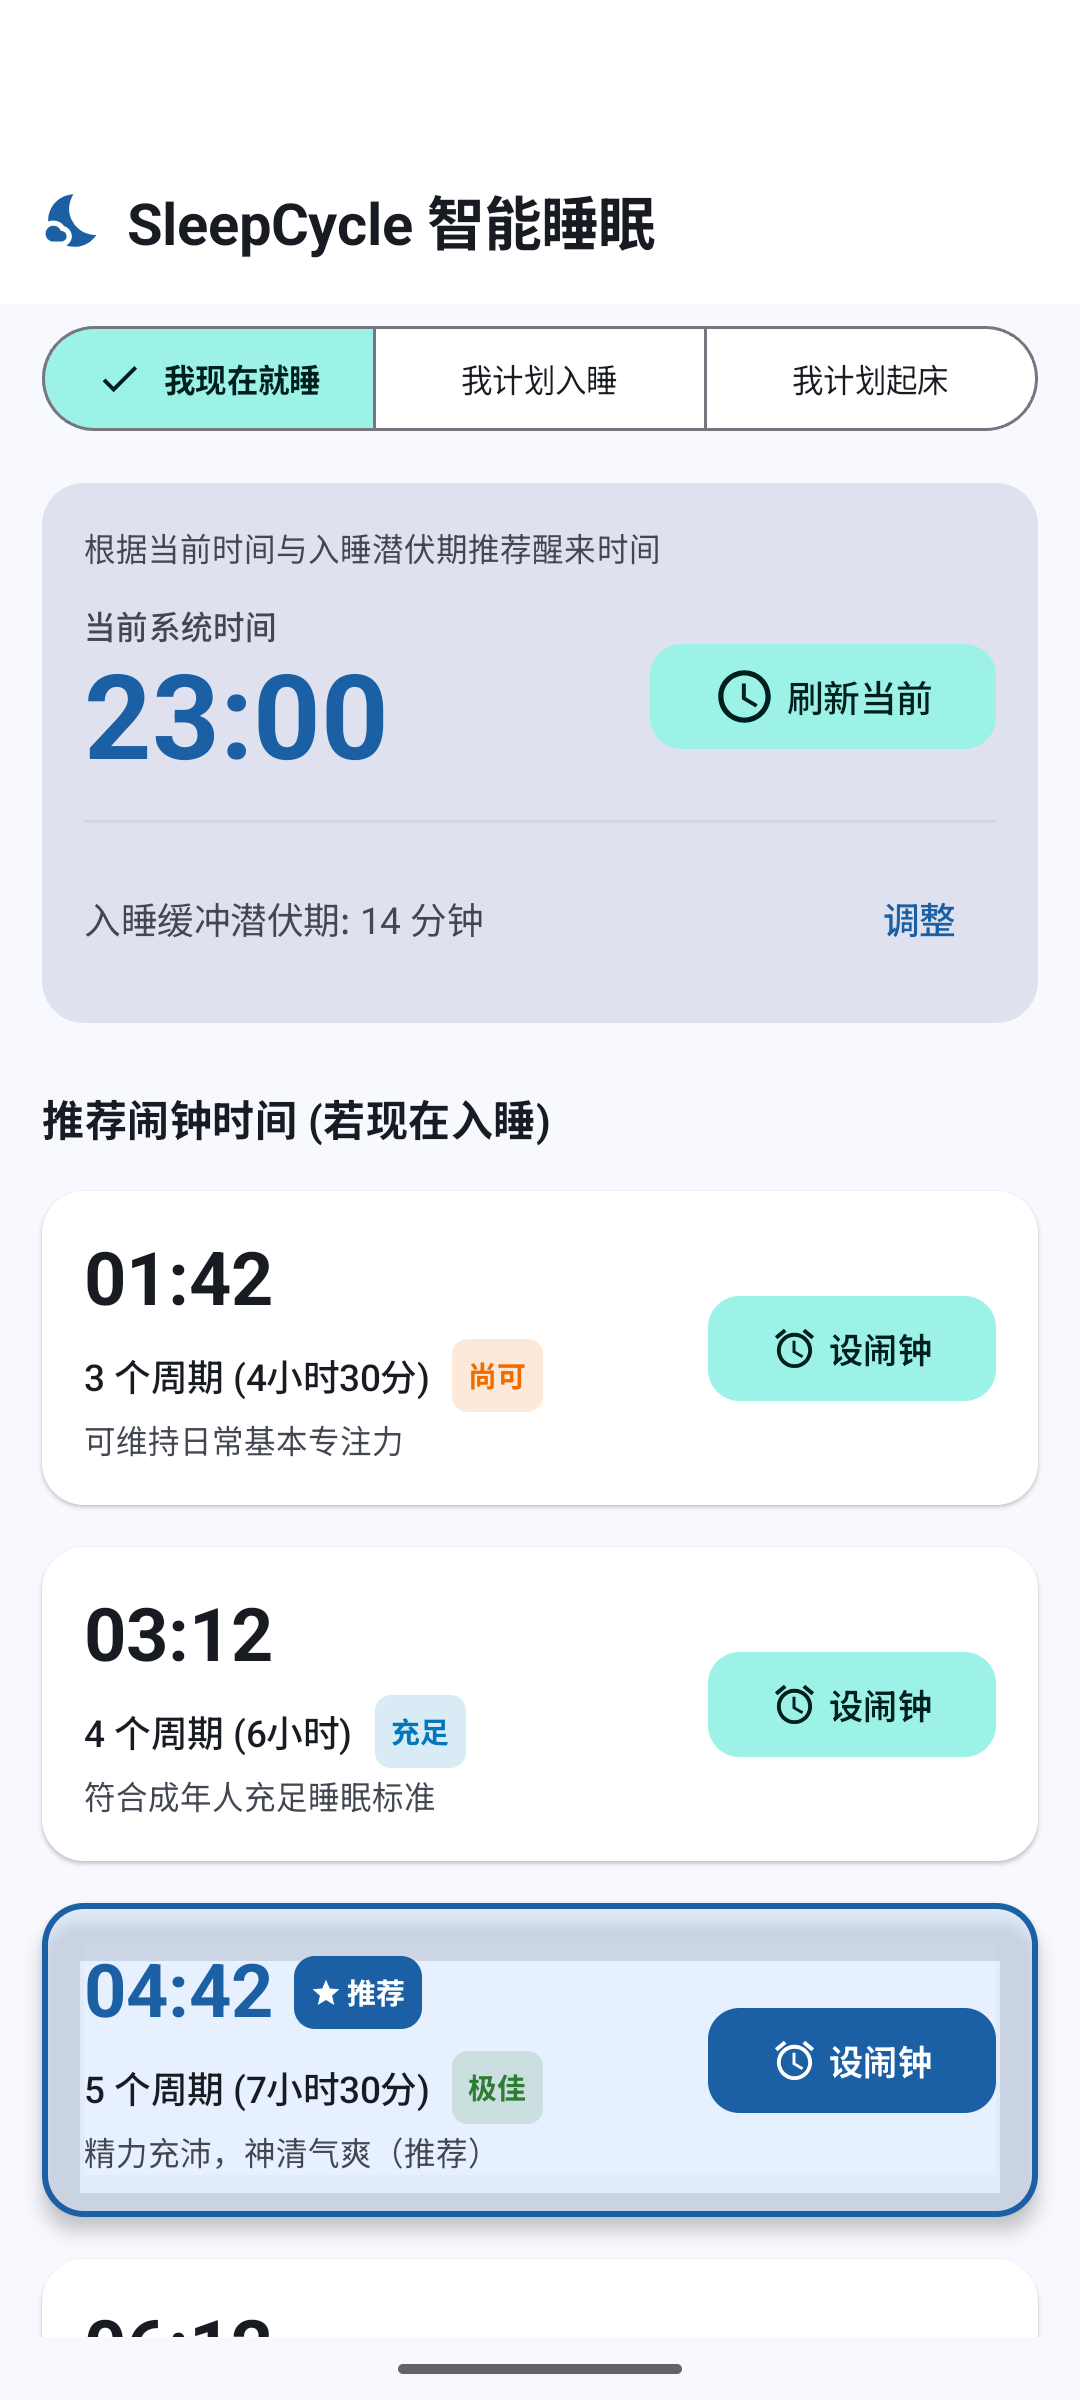
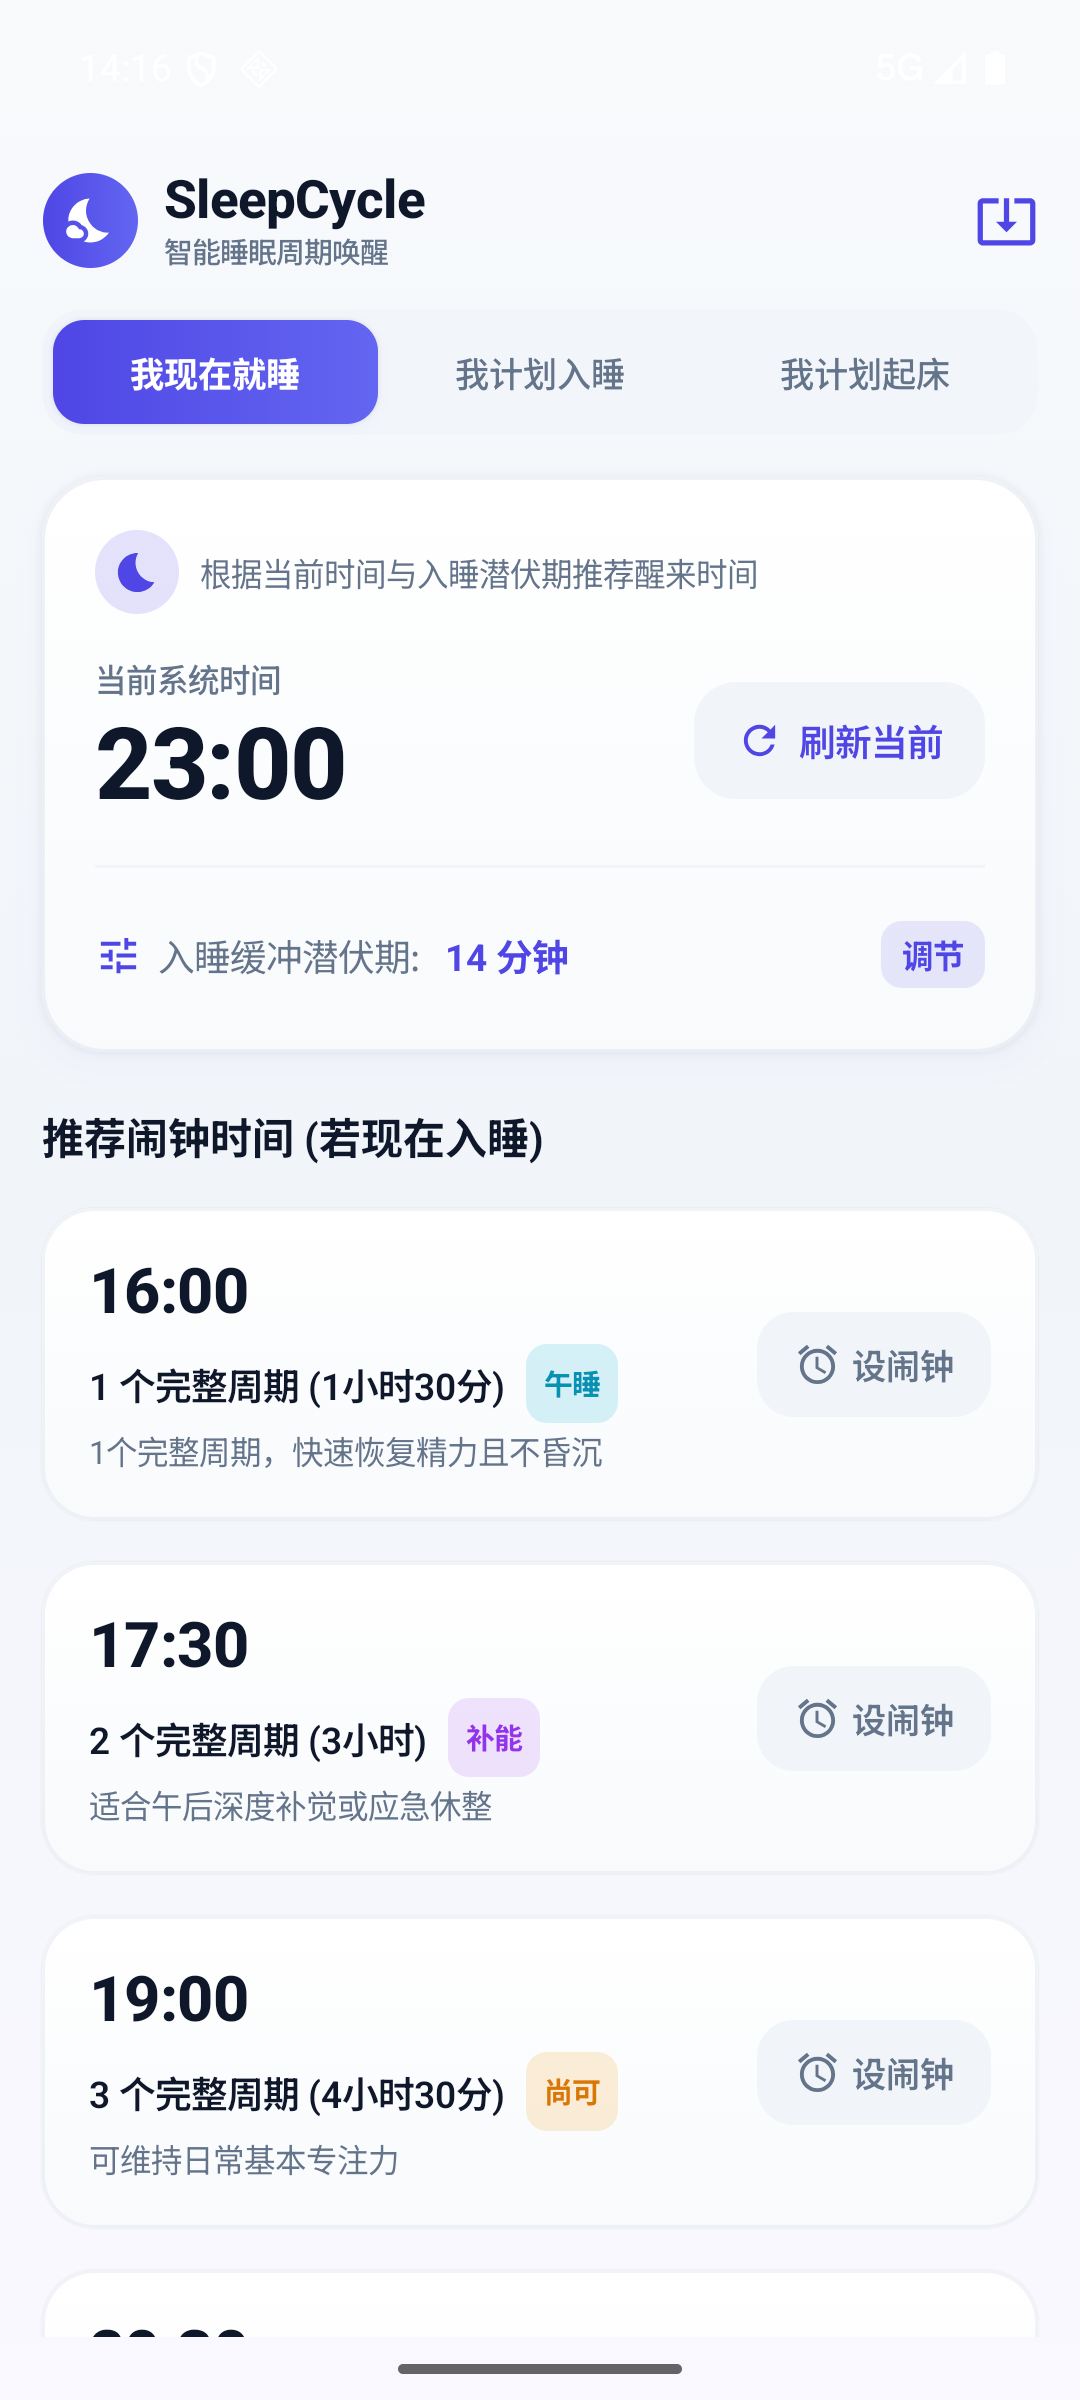
docs: update UI screenshots and README previews to latest design

diff --git a/README.md b/README.md
@@ -57,7 +57,7 @@ $$睡眠总时长 = 周期数 \times 90分钟 + 入睡潜伏期（默认14分钟
 <div align="center">
   <img src="docs/screenshots/sleep_cycle_now.png" width="30%" alt="我现在就睡" />
   <img src="docs/screenshots/sleep_cycle_plan_bedtime.png" width="30%" alt="规划入睡时间" />
-  <img src="docs/screenshots/sleep_cycle_alarm_triggered.png" width="30%" alt="一键联动系统闹钟" />
+  <img src="docs/screenshots/sleep_cycle_latency_dialog.png" width="30%" alt="入睡潜伏期设置" />
 </div>
 
 ---
@@ -65,7 +65,7 @@ $$睡眠总时长 = 周期数 \times 90分钟 + 入睡潜伏期（默认14分钟
 ## 📥 下载安装
 
 前往 [Releases 页面](../../releases/latest) 下载最新的 APK 安装包：
-- **[SleepCycle-v1.0.apk](../../releases/latest)**
+- **[SleepCycle-v1.3.0.apk](../../releases/latest)**
 
 > 适配 Android 8.0 (API Level 26) 及以上版本系统。
 
